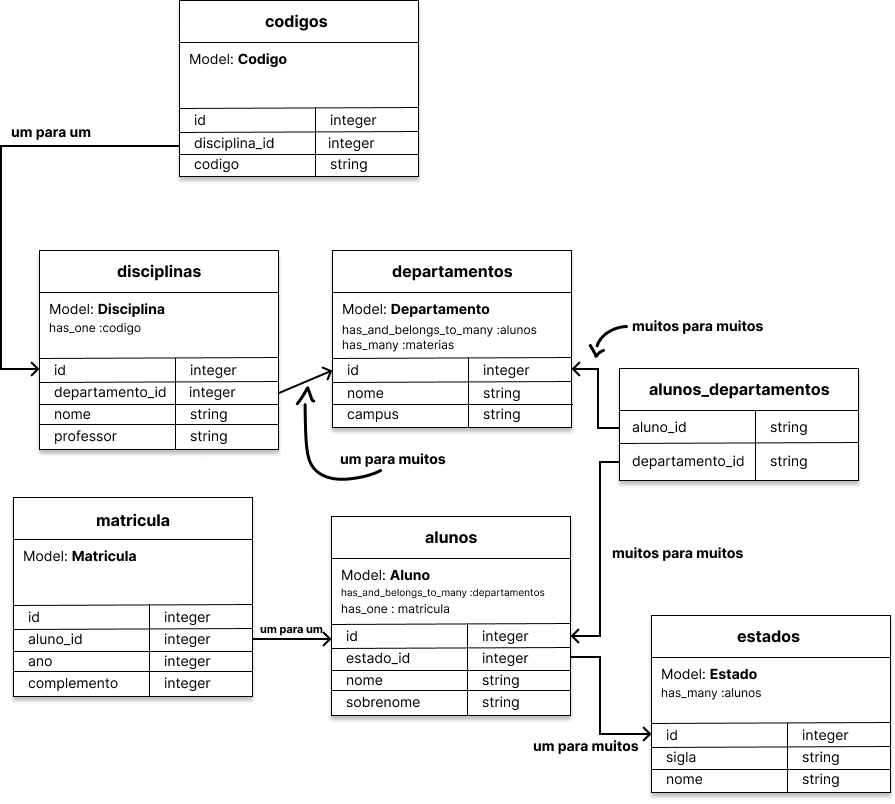
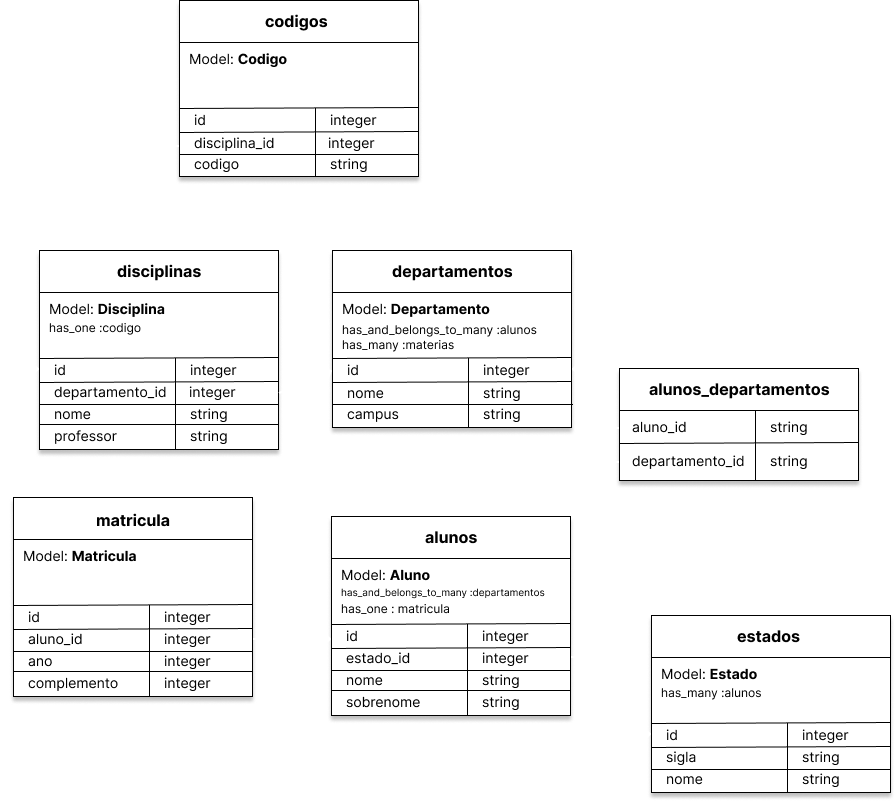
n

diff --git a/databaseActiveRecord/README.md b/databaseActiveRecord/README.md
@@ -1,10 +1,93 @@
-#Trabalho 2 - Banco de Dados usando ActiveRecord
+# Trabalho 2 - Banco de Dados usando ActiveRecord
 
-![](./diagrama.png)
+## Estruturas
 
-* departamentos (nome, campus)
-* estado (nome, sigla)
-* alunos (nome, sobrenome, estado_id)
-* alunos_departamentos (aluno_id, departamento_id)
-* matriculas (ano, complemento, aluno_id)
-* disciplinas ()
+### Tabelas
+
+* **departamentos** (nome, campus)
+* **estado** (nome, sigla)
+* **alunos** (nome, sobrenome, *estado_id*)
+* **alunos_departamentos** (*aluno_id*, *departamento_id*)
+* **matriculas** (ano, complemento, *aluno_id*)
+* **disciplinas** (nome, professor, *departamento_id*)
+* **codigos**(codigo, *disciplina_id*)
+
+### Relações existentes
+
+**Relação N:N**   
+
+* Um departamento possui N alunos, e os alunos estão em N departamentos.
+
+**Relação 1:N**   
+
+* Um departamento possui muitas disciplinas, mas cada disciplina so pertence a 1 departamento.
+* Um estado possui muitos alunos, mas cada aluno so pertence a 1 estado.
+
+**Relação 1:1**   
+
+* Uma disciplina so possui 1 código, assim como 1 código só esta associado a uma disciplina.
+* Cada aluno so possui 1 matrícula, assim como 1 matrícula so esta associada a um aluno.     
+
+<img src="./diagrama.png" alt="Diagrama" width="400">
+
+## Criar database
+
+### Forma manual:
+
+~~~ruby
+ruby cria"Tabela".rb
+~~~
+_Do qual:_ "Tabela" é substituído pela tabela que deseja ser criado.
+
+### Forma automática:
+~~~bash
+./criaTudo.sh
+~~~
+_Do qual:_ Todas as tabelas disponíveis serão criadas automaticamente
+
+
+## Iniciar programa principal
+
+### Para inserção manual
+
+~~~ruby
+ruby menu.rb
+~~~
+_Com esse chamado, o programa entra em modo de execução permitindo usar os Comandos para interação com o bando de dados_
+
+### Para inserção automática de valores
+~~~ruby
+ruby menu.rb 1
+~~~
+_Chamando dessa maneira, o banco de dados é preenchido com os comandos existentes em "arquivoPreenchimento.txt"_
+
+
+## Comandos
+Os comandos seguem uma formatação semelhante:
+~~~bash
+< operação > < tabela > { atributo=valor }
+~~~
+
+### Operação
+* **insere** : Insere valores na tabela com os atributos e valores passados.
+~~~bash
+insere alunos nome="Leonardo"
+~~~
+* **exclui** : Exclui valores da tabela de acordo com os atributos e valores passados.
+~~~bash
+exclui alunos nome="Leonardo"
+~~~
+* **altera** : Altera os valores da tabela. Importante passar os valores já existentes e os novos desejados,para o correto funcionamento.
+~~~bash
+altera alunos nome="Leonardo" nome="João"
+~~~ 
+* **lista** : Lista a tabela informada, nesse comando não são necessários atributos e valores.
+~~~bash
+lista alunos
+~~~
+
+### Tabela
+Neste campo é possível escolher a trabalha que se deseja interagir, dentre as criadas e definidas.
+
+### Atributo e valor
+Permitindo repetição, nesse campo são inseridos todos os atributos e valores do qual se deseja operar.
